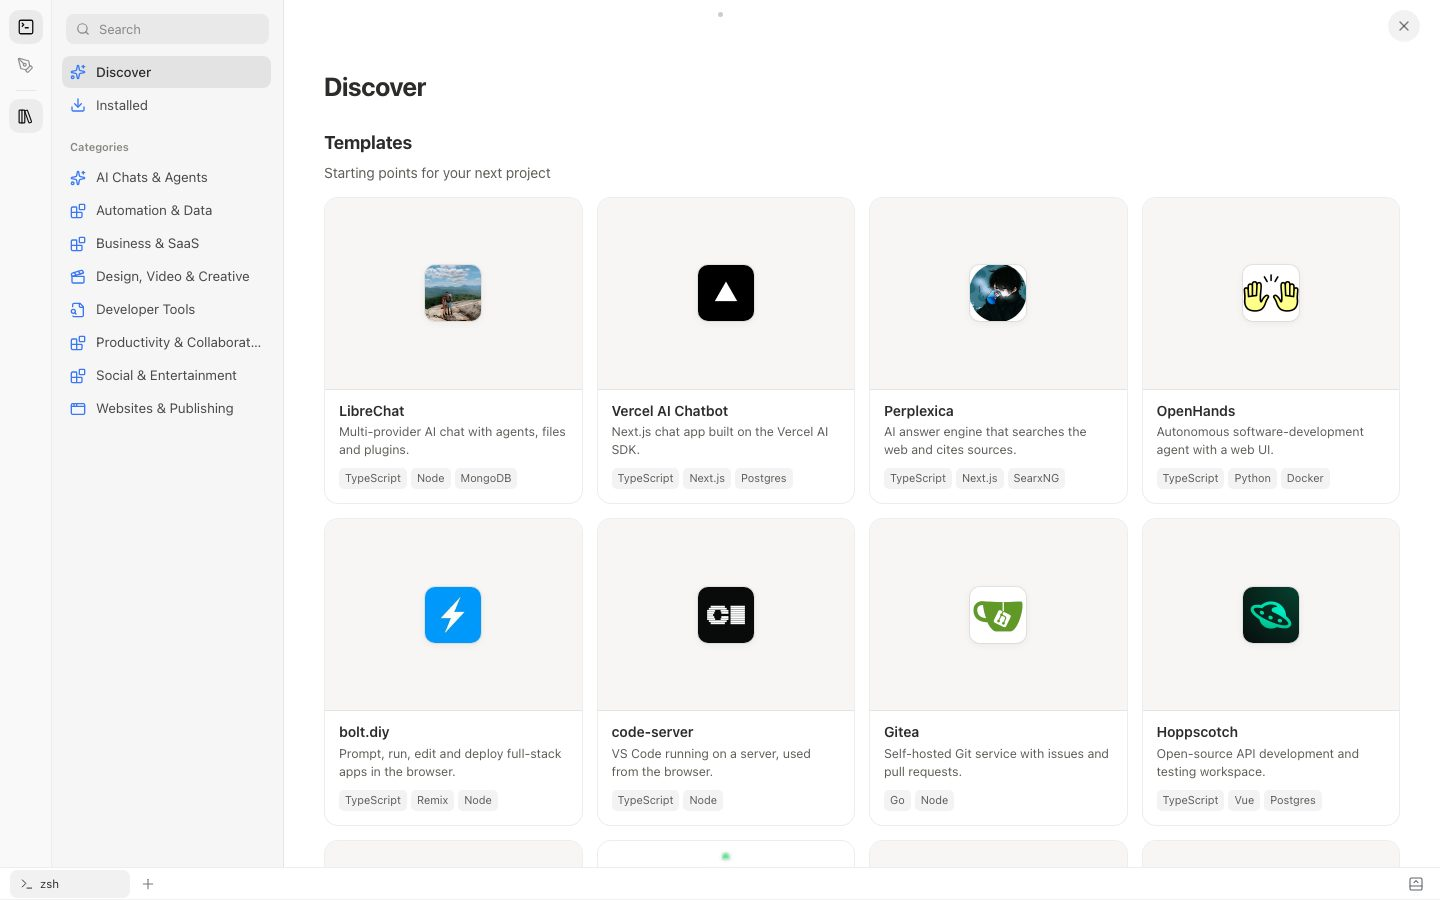
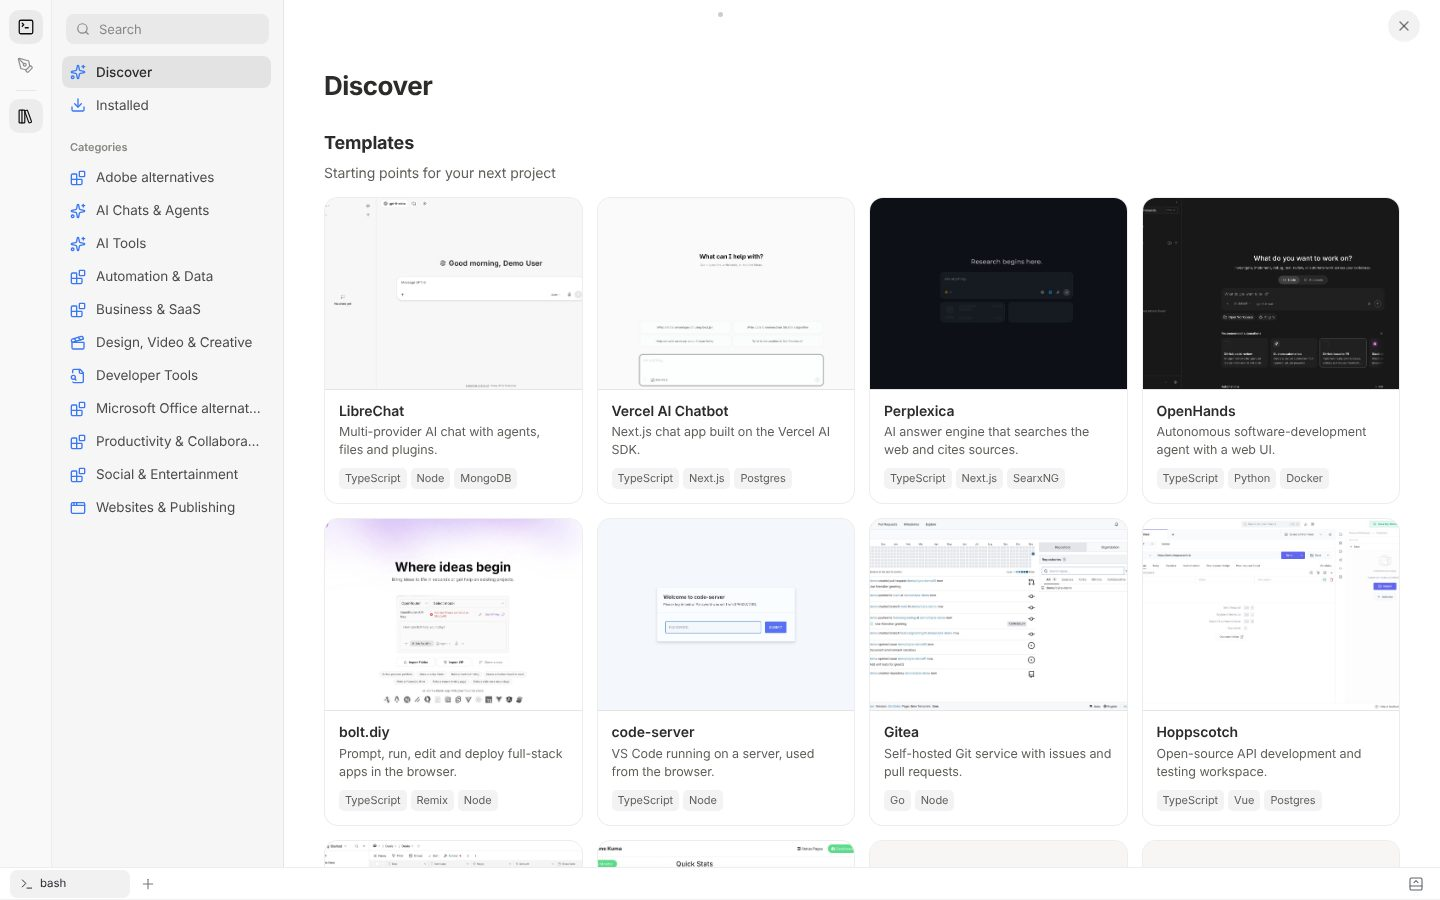
Library: launch-test results table and Library UI screenshots (Discover, carousel detail)
Claude-Session: https://claude.ai/code/session_01JbLmXSfY1iESauPgynK7ed

diff --git a/docs/library-launch-test-results.md b/docs/library-launch-test-results.md
@@ -1,0 +1,43 @@
+# Library launch-test results (2026-11-10)
+
+Each template was cloned (`--depth 1`), installed and run in a disposable Linux sandbox (4 vCPU, 15 GB RAM, no IPv6, outbound traffic through an allow-list proxy that blocks ghcr.io, several vendor registries and most third-party APIs). Checkouts, containers and volumes were deleted after each run; only screenshots and catalogue changes are committed. Demo data is generated or created through each app's own UI/API; no real accounts or keys were used.
+
+| id | commit | install / provision | run command and deviations | port | services | result | shots | licence (read from repo) |
+|---|---|---|---|---|---|---|---|---|
+| excalidraw | 701b901 | yarn install --frozen-lockfile (62s) | BROWSER=none yarn start (vite; plain yarn start crashes headless: xdg-open ENOENT) | 3001 | none | ran | 3 | MIT (LICENSE verified) |
+| actual | 5ffb72a | yarn install (yarn 4.17.1; corepack blocked repo.yarnpkg.com so used @yarnpkg/cli-dist from npm) 82s | yarn start:browser | 3001 | none | ran | 4 | MIT (LICENSE.txt, Copyright James Long; verified) |
+| uptime-kuma | fb8ef0f | npm ci (22s) + npm run build (5s); needs Node>=26.2 (22 refused; installed 26.13 via npm 'node' pkg) | README 'node server/server.js' fails on master (ERR_UNSUPPORTED_DIR_IMPORT, TS); worked with 'node --import=tsx server/server.js' (npm run start-server); needs UPTIME_KUMA_DISABLE_LEAK_PWD_CHECK=1 in sandbox (HIBP blocked) | 3001 | none (SQLite) | ran (with deviations) | 4 | MIT |
+| hycanvas | ba7b2c0 | docker compose up -d (docker/docker-compose.yml, prebuilt hycanvas/hycanvas + postgres:16) 22s | same | 8005 | Postgres (bundled) | ran | 3 | AGPL-3.0 (LICENSE; COMMERCIAL.md offers a commercial alternative) |
+| bolt-diy | 353b44c | pnpm install (12s; pnpm 9.15.9) | README 'pnpm run dev' binds --host :: -> EAFNOSUPPORT (no IPv6 in sandbox); ran 'react-router dev --host 127.0.0.1' | 5173 | none (needs own model key; none set) | ran (UI only, no model call) | 3 | MIT |
+| docusaurus | c00f04e | pnpm install --frozen-lockfile (43s, pnpm 12.3.4 via corepack; postinstall builds packages) | pnpm --filter website start --no-open; Node 22 FAILS (RegExp.escape is not a function) - needs Node>=24; ran on 26.13 | 3000 | none | ran (monorepo's own website, not a starter site) | 3 | MIT |
+| opencut | e668010 | bun install in apps/web (6s; README path proto->moon unavailable: moonrepo.dev 403) | bun run dev (= 'moon run web:dev'); apps/web renders only 'hello world!' | 5173 | none | partial: runs but app is an empty rewrite stub; README says opencut-classic is the working editor | 0 | MIT (LICENSE, Copyright 2026 OpenCut) |
+| saas-starter | 6e33e58 | pnpm install (6s); postgres:16-alpine via docker; hand-written .env (db:setup needs Stripe CLI login); pnpm db:migrate OK | pnpm dev; pnpm db:seed creates test@test.com/admin123 then fails creating Stripe products (dummy key, Stripe unreachable) | 3000 | Postgres (docker), Stripe (dummy key) | partial: landing + auth + dashboard work; /pricing throws 'connection to Stripe' runtime error | 4 | MIT |
+| gitea | 25c5b6a | TAGS='bindata sqlite sqlite_unicode' make build (2m33s; Go toolchain 1.27.3 auto-downloaded, pnpm/vite frontend built) | ./gitea web with custom app.ini (INSTALL_LOCK, sqlite3, port 3300); sandbox needs GITEA_I_AM_BEING_UNSAFE_RUNNING_AS_ROOT=true; admin via 'gitea admin user create' | 3300 | none (SQLite) | ran | 5 | MIT (LICENSE: Gitea/Gogs authors; verified MIT text) |
+| navidrome | 93cead9 | docker run deluan/navidrome:latest (docs' Docker path; source build via make/taglib not attempted) | docker run -p 4533:4533 -v music:/music; admin created in UI; library = 12 synthesized WAV demo tracks with ID3 tags + generated cover art | 4533 | none (SQLite in container) | ran (via official image, not source) | 4 | GPL-3.0 (LICENSE verified) |
+| umami | 559e3c6 | pnpm install (10s) + pnpm run build (88s) with DATABASE_URL -> postgres:16-alpine (docker); build runs migrations | pnpm run start (next start; warns it conflicts with output:standalone but works); default login admin/umami | 3000 | Postgres (docker) | ran | 4 | MIT |
+| hoppscotch | 55908a7 | docker compose with prebuilt hoppscotch/hoppscotch:latest (AIO) + postgres:15 (repo's own compose builds from source via prod.Dockerfile; not run); .env from .env.example + dummy secrets | needed restart: unless-stopped (backend deliberately exits once on first boot after seeding InfraConfig) | 3000 (app), 3100 (admin), 3170 (api) | Postgres | ran (via prebuilt image, not source build); anonymous use works, login needs SMTP/OAuth | 4 | MIT |
+| nocodb | 7f1f236 | docker run nocodb/nocodb:latest (README quickstart); repo source not built (pnpm monorepo) | docker run -d -v ./nocodb:/usr/app/data -p 8080:8080 nocodb/nocodb:latest; signup via /api/v1/auth/user/signup; demo table+views created via the app's REST API | 8080 | none (SQLite in container) | ran (via official image, not source) | 4 | NOT open source: LICENSE.md = 'Sustainable Use License' v1.0 (source-available; internal business/non-commercial use; redistribution only free of charge for non-commercial purposes) |
+| wekan | bc69880 | docker compose -f docker-compose-mongodb-v7.yml adapted: wekanteam/wekan:latest (Docker Hub) because ghcr.io blob host is blocked in sandbox; mongo:7 (replset); default docker-compose.yml (FerretDB from GitHub releases + ghcr image) could not be pulled | Placeholder MAIL_URL=smtp://<mail_url>... crashes boot (ERR_INVALID_URL) -> set to smtp://localhost:25; user/board/cards created via the app's REST API | 80 | MongoDB 7 | ran (with deviations) | 3 | MIT |
+| librechat | f4154b6 | mongo:8.0.20 in docker; npm install (npm ci fails: 'xlsx' pinned to cdn.sheetjs.com -> 403 in sandbox; swapped to registry xlsx@0.18.5 in scratch copy only); npm run frontend (33s) | npm run backend (documented compose cannot run: registry.librechat.ai image host is blocked, 403); .env from .env.example with MONGO_URI=127.0.0.1; registration via UI | 3080 | MongoDB 8 | ran from source (compose/image path blocked); scheduler logs an error without Redis; no model key so no chat | 4 | MIT |
+| perplexica | 348feca | docker run itzcrazykns1337/vane:latest (README one-liner; repo renamed Vane) | docker run -d -p 3000:3000 -v vane-data:/home/vane/data; setup wizard needs a model connection -> dummy OpenAI key (no validation) | 3000 | SearxNG is bundled in the full image; none external | ran; no live search (no model key; Discover feed skeletons because news fetch blocked) | 4 | MIT |
+| vercel-chatbot | a8989b5 | pnpm install (6s); postgres:16-alpine docker; .env.local with dummy AI_GATEWAY/BLOB keys; pnpm db:migrate OK | pnpm dev (next dev --turbo) | 3000 | Postgres (docker); AI Gateway key needed for replies | ran: UI renders (guest session); sending a message cannot answer (no model key) | 3 | Apache-2.0 (LICENSE verified; was 'License review') |
+| code-server | fcd14dc | docker run codercom/code-server:latest (Docker Hub; docs' install.sh at code-server.dev is blocked 403; source build needs the VS Code submodule toolchain, not attempted) | docker run -p 8080:8080 -e PASSWORD=... -v project:/home/coder/project | 8080 | none | ran (via official image) | 3 | MIT |
+| openhands | e14b76c | npm ci (38s) under Node 26 (README needs Node>=24, npm 11.12.1 pin; npm 10.9.9 bundled with Node 26 build worked); uv/uvx runs the agent server | npm run dev (README Option 4: From Source) -> Agent Canvas UI; repo is now 'Agent Canvas' (OpenHands rename); Docker option uses ghcr.io image (blocked) | 8000 | none | ran from source; no model key so no agent run; telemetry hosts blocked (harmless) | 4 | MIT |
+| penpot | cd1ece4 | docker compose -p penpot up -d (docker/images/docker-compose.yaml; prebuilt penpotapp/* 2.18, postgres:15, valkey, mailpit, mcp, admin-console) | frontend nginx crashed (listen [::]:8080: no IPv6 in sandbox) -> override env PENPOT_IPV6_LISTEN_DIRECTIVE; registered via UI; file/board drawn via UI after creating file through app RPC (onboarding modal kept resetting) | 9001 | Postgres, Valkey, Mailpit, exporter, backend | ran (with deviation) | 4 | MPL-2.0 (LICENSE verified) |
+| metabase | da359da4 | docker run -p 3000:3000 metabase/metabase:latest (README quickstart; source build needs JDK21+clojure+yarn, not attempted); setup + saved questions + dashboard via the app's REST API on the bundled SQLite sample DB | docker run | 3000 | none (embedded H2 app DB) | ran (via official image, not source) | 4 | Mixed: LICENSE.txt = AGPL outside /enterprise, Metabase Commercial License inside /enterprise; AGPL/MCL/Embedding texts present |
+| ghost | 912930c | docker run ghost:latest (official Docker Hub image; docs' ghost-cli not used) | docker run -e url=... -e NODE_ENV=development (SQLite) -e server__host=0.0.0.0 (no IPv6 in sandbox: Code -97) -e security__staffDeviceVerification=false (device-verification email can't be sent); setup + posts via Admin API | 2368 | none (SQLite) | ran (via official image, with deviations) | 4 | MIT |
+| activepieces | 217384ba | docker compose (repo docker-compose.yml) with ghcr.io image swapped to Docker Hub activepieces/activepieces:0.93.0 (ghcr blocked), worker replicas 5->1, .env from .env.example + generated secrets | app crashed: listen EAFNOSUPPORT :::80 (server hardcodes host '::' in packages/server/api/dist/src/main.js; no IPv6 in sandbox) -> bind-mounted a copy patched to 0.0.0.0 (sandbox workaround only); sign-up via API | 8080 | Postgres(pgvector), Redis | ran (with patch); piece catalogue empty (cloud sync blocked) so no flow could be built | 3 | MIT outside packages/ee and server/api/src/app/ee (commercial); LICENSE verified |
+| formbricks | 4d9a14f | docker run formbricks/formbricks:latest (Docker Hub; repo compose + docker/formbricks.sh use ghcr images/Traefik+Let's Encrypt, not usable) + pgvector/pgvector:pg17 + valkey/valkey:8; hand-written env (DATABASE_URL, REDIS_URL, NEXTAUTH_SECRET, ENCRYPTION_KEY, CRON_SECRET, WEBAPP_URL) | container's startup migration needs npm/corepack egress -> ran with --network host + HTTPS_PROXY + sandbox CA; EMAIL_VERIFICATION_DISABLED=1 (no SMTP); setup wizard + org + project + survey template via UI | 3000 | Postgres(pgvector), Valkey | ran (with deviations) | 4 | Mixed: AGPLv3 outside apps/web/modules/ee and licensed-SDK dirs (packages/js, android, ios, api, surveys...), enterprise license inside apps/web/modules/ee; LICENSE verified |
+| astrofy | 9398dea | npm install | npm run dev (astro dev) -> 200 on :4321; screenshots from earlier pass kept | 4321 | none | ran (re-verified boot only) | 3 | MIT (LICENSE verified) |
+| minipaint | c9192c1 | npm install; npm run build (webpack, 17s) | served statically with http-server | 8090 | none | ran | 3 | MIT (MIT-LICENSE.txt; package.json license MIT) |
+| stirling-pdf | 0b7d3a4 | docker run stirlingtools/stirling-pdf:latest (Docker Hub; README uses docker.stirlingpdf.com mirror) | docker run -p 8080:8080 -e DOCKER_ENABLE_SECURITY=false -e SECURITY_ENABLELOGIN=false (default needs admin/stirling login + forced password change) | 8080 | none | ran (via official image) | 3 | MIT core (LICENSE) with separately licensed app/proprietary, app/saas, engine, frontend editor proprietary/desktop dirs -> License review |
+
+## Not launch-tested in this pass
+
+These 14 templates were **not attempted** (time budget), so they have no screenshots and keep their `unverified` status and original catalogue text: `appflowy`, `plane`, `onlyoffice`, `cal-diy`, `cap`, `medusa`, `twenty`, `chatwoot`, `invoiceninja`, `stoat`, `pixelfed`, `peertube`, `mastodon`, `medusa-dtc`. No claim is made that they cannot run.
+
+`opencut` was run but its default branch only renders a placeholder page (rewrite in progress; README points to `opencut-classic`), so it has no screenshots.
+
+## Added catalogue entries (not launch-tested except Stirling-PDF)
+
+Adobe alternatives: stirling-pdf (run, 3 shots), svgedit, filerobot-image-editor, opencut-classic, omniclip, photoprism. Microsoft Office alternatives: univer, pptist. AI tools: anything-llm, flowise, langflow, openwhispr (desktop), natively (desktop, Cluely alternative). The repositories exist and their licences are as reported by GitHub's API; they have no screenshots and carry the unverified warning.
